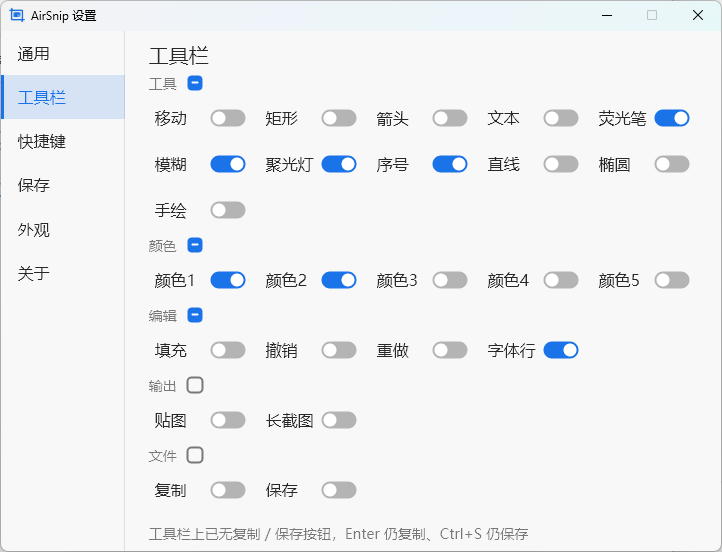
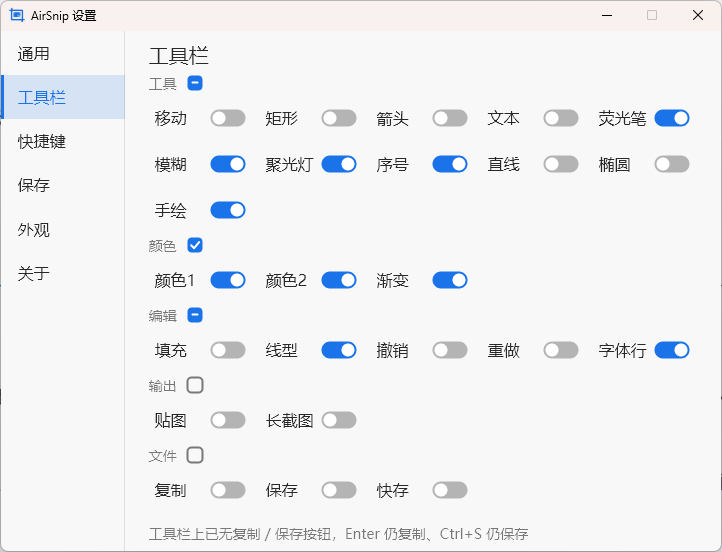
🚀 跟进 v0.13.0 正式版：版本、体积与新截图 - VERSION 升到 v0.13.0，下载直链与加速直链自动跟随；体积改为 exe 1.54 MB / zip 0.86 MB - 首页更新卡片按 v0.13.0 Release 说明重写：渐变、线型、Alt+S 快存与保存路径模板、F/R 快速选区、我要反馈、颜色组与快捷键页签变更 - 快捷键表补 Alt+S、F、R，矩形工具描述加渐变与线型 - 6 张设置截图与 hero 换成新版界面，同步 caption/alt 与 hero 尺寸 1329×692 - features / shortcuts / faq / download 

diff --git a/docs/.vitepress/data/site.ts b/docs/.vitepress/data/site.ts
@@ -84,7 +84,7 @@ export const THIRD_PARTY_URL = `${REPO_URL}/blob/main/THIRD-PARTY.md`
 export const PERF_URL = `${REPO_URL}/blob/main/docs/perf-m5.md`
 
 // 由作者维护：改这里即可让下载地址与页面上显示的版本号同步更新
-export const VERSION = 'v0.12.0'
+export const VERSION = 'v0.13.0'
 
 /** 当前版本的 Release 页面，用于「完整更新日志」 */
 export const RELEASE_URL = `${RELEASES_URL}/tag/${VERSION}`
@@ -106,20 +106,20 @@ export const DESCRIPTION = '1 MB 的 Windows 截图标注工具（Rust，纯 CPU
 export const downloadInfo = {
   platform: 'Windows x64',
   portable: '绿色免安装',
-  packageSize: '0.81 MB',
+  packageSize: '0.86 MB',
   license: 'GPL-3.0-only',
 } as const
 
 export const stats: Stat[] = [
   {
     label: '单文件体积',
-    value: '1.45',
+    value: '1.54',
     unit: 'MB',
     note: '一个 exe 就是全部',
   },
   {
     label: '下载包',
-    value: '0.81',
+    value: '0.86',
     unit: 'MB',
     note: 'zip，含文档与许可证',
   },
@@ -156,37 +156,37 @@ export const statsFootnote =
 /** 首页「这次更新了什么」：只写当前版本 Release 说明里的事实 */
 export const releaseUpdate: ReleaseUpdate = {
   title: '这次更新了什么',
-  lead: '四个大字：框选完先摆好位置再画标注；鼠标停在哪，就选中哪个窗口、甚至哪个按钮。OCR 与翻译在这一版撤销了。',
+  lead: '颜色组多了渐变，描边能换虚线点划线；截完按 Alt+S 按模板直接落盘；没有选区时 F 选整屏、R 复用上次区域。',
   changes: [
     {
+      icon: 'palette',
+      title: '颜色组里多了渐变',
+      body: '工具栏颜色组从 5 个纯色改成 2 纯色 + 1 渐变。渐变色块画的是径向预览，单击使用、双击换一套，24 套色相各不相同、方向正反交替。其中一套是完整光谱，8 个色标、色相跨 360°，在 OKLab 感知空间里插值，暗底上不发浑；首尾闭合，描边绕一圈不会在角上留硬接缝。描边沿周长走色，填充按包围盒长边，箭头与直线沿起点到终点。手绘的渐变描边改按累计弧长每 8px 描一段，1200px 的笔迹从 72ms 降到 9.2ms。',
+    },
+    {
+      icon: 'shapes',
+      title: '描边线型：实线 / 虚线 / 点划线',
+      body: '「填充」右侧新增线型格子，画的是当前线型的真实样本，带下拉箭头。段长随线宽缩放，虚线用平头端点。线型是对象样式：选中标注后改立即生效并记一次撤销，没选中时只影响下一次绘制。对矩形、椭圆、箭头、直线、手绘、序号引线生效，填充对象、文本、荧光笔、模糊、聚光灯选中时格子置灰。',
+    },
+    {
+      icon: 'clipboard',
+      title: 'Alt+S 直接落盘，不再弹对话框',
+      body: '保存路径改成一个模板：目录点一下用资源管理器选，文件名在面板里直接改，格式 png / jpg / webp 三选一，支持 $yyyy$ $MM$ $dd$ $HH$ $mm$ $ss$ $ts$ 与 %VAR% 变量。同名自动加序号，目录不存在自动创建，模板写坏会在写盘前拦住并保留覆盖层可重试。另存为还是 Ctrl+S，现在也能改键。存完弹一条轻提示，点提示直接定位到文件，可选同时复制到剪贴板。',
+    },
+    {
       icon: 'window',
-      title: '窗口自动吸附，单击就选中整窗',
-      body: '还没框选时，光标停在哪就在哪高亮：细边加半透明遮罩，左下角报出这个窗口的尺寸，单击直接把整个窗口定成选区，接着就能标注。按下就拖（超过 2px）仍是自由框选，两种用法不打架。窗口边界按系统给的真实外框取，不会把 Windows 那圈看不见的阴影算进去；任务栏和贴图窗口同样能选。',
+      title: 'F 选整屏，R 复用上次区域',
+      body: '没有选区时按 F 选中光标所在显示器的整屏（含任务栏，多显示器下鼠标在哪块屏就框哪块），按 R 复用本次运行上一次确定的选区。两者都只选中、不自动完成，落下后接着标注或按 Enter 都行；已有选区时按下去什么也不做。',
     },
     {
-      icon: 'target',
-      title: '还能继续下钻到控件',
-      body: '停在工具栏按钮、输入框、列表项上时，高亮的不是整个窗口而是那个控件。悬停先亮整窗，后台查到的子控件随后收紧；滚轮往上退到父级、往下钻得更细，最粗一档永远是整窗。查询在常驻后台线程里跑，目标程序假死也不会把覆盖层拖住。',
+      icon: 'tooltip',
+      title: '「我要反馈」一键带上运行环境',
+      body: '设置 →「关于」右侧新增按钮，一键把版本号、Windows 版本与 build、显示器（分辨率、缩放、相对主屏位置、HDR）、显卡、关键开关写成三行文本进剪贴板，随后弹通知。只有点通知上的「打开反馈页」才跳浏览器。不收集用户名、保存路径与截图内容。',
     },
     {
-      icon: 'move',
-      title: '框选完默认是移动态',
-      body: '框选结束后不再自动进入画矩形的状态：选区内拖空白就是整体平移，拖已有标注就是移动那个标注，方向键微调照旧，要画标注得显式选工具（工具栏第一个「移动」按钮，或按 V 回到移动态）。平移选区时标注跟着一起走，不会被裁到框外。每次截图都从移动态开始，颜色、线宽、字号还是照旧记住。',
-    },
-    {
-      icon: 'toggle',
-      title: '两个开关变了样子',
-      body: '「通用」页的贴图位置从两行单选收成一行开关（开 = 屏幕中间、关 = 原位置），双击选区空白的动作也能配：默认复制截图，可以改成直接贴到屏幕。开关点完立即生效并写盘，不用关掉面板。新增「窗口吸附」「控件级捕捉」两个开关，默认都开，关掉后行为与没有这两项功能时完全一致。',
-    },
-    {
-      icon: 'undo',
-      title: '撤销 OCR 与翻译',
-      body: '识别精度再往上走就得加体积、走云端，和「轻量、常驻近乎零开销」的方向冲突，所以整块撤掉了。设置面板少一页（7 → 6），快捷键页少一行，T 键、[ocr] 配置段一并消失；不用 OCR 的人反而少了一层界面。需要取字或翻译请用其他软件。',
-    },
-    {
-      icon: 'mirror',
-      title: '多显示器三处修复',
-      body: '原位贴图在主屏不在左上角时会整体偏出一整块屏；F3 贴剪贴板图原先按整个虚拟屏居中，双屏时正好骑在接缝上，现在按光标所在显示器居中；混合 HDR + SDR 多屏截图时，非 HDR 那块不再全黑。',
+      icon: 'trash',
+      title: '颜色组少两格，快捷键页拆成三个子页签',
+      body: '工具栏颜色组 5 格收到 3 格，旧配置取第 2、3 项迁移成新的两个纯色，其余丢弃 —— 升级后建议到设置里重新确认颜色。快捷键页拆成截图 / 输出 / 工具三页，20 项仍全局参与冲突检测。工具栏新增「快存」按钮与线型格子，1366×768 在 200% 缩放下又重新放得下。',
     },
   ],
 }
@@ -195,7 +195,7 @@ export const tools: Tool[] = [
   {
     key: '1',
     name: '矩形',
-    description: '描边颜色、线宽、填充、圆角。',
+    description: '描边颜色（含渐变）、线型、线宽、填充、圆角。',
   },
   {
     key: '2',
@@ -251,7 +251,22 @@ export const shortcuts: Shortcut[] = [
     action: '复制到剪贴板并退出（Ctrl+C、选区内双击同效；双击的动作可在设置里改成贴图）',
     scope: 'overlay',
   },
-  { keys: ['Ctrl', 'S'], action: '另存为（PNG / JPEG / WebP）', scope: 'overlay' },
+  { keys: ['Ctrl', 'S'], action: '另存为（PNG / JPEG / WebP），可改键', scope: 'overlay' },
+  {
+    keys: ['Alt', 'S'],
+    action: '快速保存：按保存路径模板直接落盘、不弹对话框，点存完的提示可定位到文件',
+    scope: 'overlay',
+  },
+  {
+    keys: ['F'],
+    action: '没有选区时选中光标所在显示器的整屏（含任务栏）；已有选区时不生效',
+    scope: 'overlay',
+  },
+  {
+    keys: ['R'],
+    action: '没有选区时复用本次运行上一次确定的选区；不自动完成',
+    scope: 'overlay',
+  },
   { keys: ['F3'], action: '把选区贴到屏幕', scope: 'overlay' },
   { keys: ['S'], action: '长截图（当前选区为视口）', scope: 'overlay' },
   {
@@ -349,8 +364,8 @@ export const screenshots: Screenshot[] = [
     id: 'toolbar',
     title: '工具栏',
     caption:
-      '「工具栏」页：24 个元素逐项显隐——工具组（移动 + 10 个工具）、5 个色块、填充 / 撤销 / 重做 / 字体行、贴图 / 长截图、复制 / 保存；组头可整组全显或全隐。页脚提示：全隐藏后 Enter 仍复制、Ctrl+S 仍保存。',
-    alt: 'AirSnip 设置窗口的「工具栏」页，24 个工具栏元素分成五组逐项开关，页脚提示隐藏后 Enter 仍复制、Ctrl+S 仍保存',
+      '「工具栏」页：24 个元素逐项显隐——工具组（移动 + 10 个工具）、3 个色块（2 纯色 + 1 渐变）、填充 / 线型 / 撤销 / 重做 / 字体行、贴图 / 长截图、复制 / 快存 / 保存；组头可整组全显或全隐。页脚提示：复制 / 保存藏了之后 Enter 仍复制、Ctrl+S 仍保存。',
+    alt: 'AirSnip 设置窗口的「工具栏」页，24 个工具栏元素分成五组逐项开关，含 3 个色块、线型格子与快存按钮，页脚提示隐藏后 Enter 仍复制、Ctrl+S 仍保存',
     src: '/images/toolbar.webp',
     width: 722,
     height: 552,
@@ -359,8 +374,8 @@ export const screenshots: Screenshot[] = [
     id: 'shortcuts',
     title: '快捷键',
     caption:
-      '「快捷键」页：截图 F1、再次截图 Shift+F1、贴图 F3、贴图边框 Ctrl+F3、长截图 S、工具·移动 V，以及各标注工具的按键，全部可改；底部「恢复默认」一键还原，并提示无修饰键会覆盖其他程序按键。',
-    alt: 'AirSnip 设置窗口的「快捷键」页，逐项列出截图、再次截图、贴图、贴图边框、长截图、移动与各标注工具的按键，底部有「恢复默认」按钮',
+      '「快捷键」页：分「截图 / 输出 / 工具」三个子页签，图中选中「工具」，列出移动 V 与 10 个标注工具的按键，全部可改；底部「恢复默认」一键还原，并提示无修饰键会覆盖其他程序按键。',
+    alt: 'AirSnip 设置窗口的「快捷键」页，分截图、输出、工具三个子页签，当前为工具页签，逐项列出移动 V 与矩形到数字键 1–0 的标注工具按键，底部有恢复默认按钮',
     src: '/images/shortcuts.webp',
     width: 722,
     height: 552,
@@ -369,8 +384,8 @@ export const screenshots: Screenshot[] = [
     id: 'save',
     title: '保存',
     caption:
-      '「保存」页：文件名格式三选一——日期 + 时间、时间戳（毫秒）、仅日期，图中选中时间戳（毫秒）。',
-    alt: 'AirSnip 设置窗口的「保存」页，三个文件名格式单选项，时间戳（毫秒）一项被选中',
+      '「保存」页：保存位置、文件名模板、格式（.png）、同名文件自动加序号，下面一行实时预览最终路径；上方是「快速保存后显示通知」「同时复制到剪贴板」两个开关，底部是「打开文件夹」「变量说明」。',
+    alt: 'AirSnip 设置窗口的「保存」页，含快速保存后显示通知与同时复制到剪贴板两个开关、保存位置路径、文件名模板输入框、格式下拉框 .png、同名文件自动加序号、预览路径，以及打开文件夹与变量说明按钮',
     src: '/images/save.webp',
     width: 722,
     height: 552,
@@ -389,8 +404,8 @@ export const screenshots: Screenshot[] = [
     id: 'about',
     title: '关于',
     caption:
-      '「关于」页：版本 v0.12.0 与 GPL-3.0 许可、项目地址、第三方许可清单入口、版本更新（含启动时自动检查开关，图中显示已是最新），以及作者的支持项目说明与赞赏二维码（原样展示）。',
-    alt: 'AirSnip 设置窗口的「关于」页，含版本号 v0.12.0、GPL-3.0 许可、项目地址、第三方许可入口、版本更新与启动时自动检查开关，以及支持项目二维码',
+      '「关于」页：版本 v0.13.0 与 GPL-3.0 许可，行右侧是「我要反馈」按钮；下面依次是项目地址、第三方许可清单入口、版本更新（含启动时自动检查开关，图中显示已是最新），以及作者的支持项目说明与赞赏二维码（原样展示）。',
+    alt: 'AirSnip 设置窗口的「关于」页，含版本号 v0.13.0、GPL-3.0 许可、我要反馈按钮、项目地址、第三方许可入口、版本更新与启动时自动检查开关，以及支持项目二维码',
     src: '/images/about.webp',
     width: 722,
     height: 552,
@@ -399,8 +414,8 @@ export const screenshots: Screenshot[] = [
 
 export const heroShot = {
   src: '/images/hero.webp',
-  width: 1297,
-  height: 742,
+  width: 1329,
+  height: 692,
   alt: '按 F1 后的截图覆盖层：背景整体压暗，选区框住网页内容并显示选区尺寸，屏幕底部一行标注工具栏',
   caption: '按 F1 后的样子：屏幕冻结、框选任意区域，底部一行就是全部标注工具。',
 }

diff --git a/docs/guide/features.md b/docs/guide/features.md
@@ -1,6 +1,6 @@
 ---
 title: 功能详解
-description: AirSnip 的截图、标注、二次编辑、输出、长截图、贴图与设置：窗口吸附与控件捕捉、多种标注工具、100 步撤销、三种保存格式与最多 20 张贴图。
+description: AirSnip 的截图、标注、二次编辑、输出、长截图、贴图与设置：窗口吸附与控件捕捉、渐变与虚线线型、100 步撤销、保存路径模板与最多 20 张贴图。
 ---
 
 <script setup lang="ts">
@@ -16,6 +16,7 @@ import ToolShowcase from '../.vitepress/theme/components/ToolShowcase.vue'
 - 八向缩放，按住空格整体拖动选区，方向键 1px 微调（按住 `Shift` 每次 5px）
 - 窗口吸附：还没框选时，光标停在哪就在哪高亮，单击就把整个窗口定成选区；停到工具栏按钮、输入框这类控件上会继续下钻，高亮那个控件本身，滚轮可上下调整捕捉层级
 - **框选完成后默认是「移动选区」**：选区内拖空白整体平移（标注跟着走），拖对象移动那个标注；要画标注先选工具（工具栏第一个「移动」按钮，或按 `V`）
+- 没有选区时按 `F` 选中光标所在显示器的整屏（含任务栏，多显示器下鼠标在哪块屏就框哪块），按 `R` 复用本次运行上一次确定的选区；两者都只选中、不自动完成
 - `Shift+F1` 再次截图：不退出覆盖层，重新冻结屏幕再框选；上一次的覆盖层控件也会被截进新图里
 - 选区内空白处双击 = 复制完成（可在设置里改成直接贴到屏幕）
 - 多显示器与负坐标布局正确（Per-Monitor V2）
@@ -24,6 +25,8 @@ import ToolShowcase from '../.vitepress/theme/components/ToolShowcase.vue'
 ## 标注 {#annotate}
 
 框选完成后默认是移动态，点工具栏的工具或按数字键才进入绘制，按 `V` 回到移动态。按键可改。
+
+颜色组是 2 个纯色 + 1 个渐变：渐变块上单击就使用，双击换一套（24 套，一套为跨 360° 的完整光谱，在 OKLab 感知空间插值、首尾闭合，描边绕一圈不留硬接缝）。「填充」右侧是线型格子，实线 / 虚线 / 点划线三档，段长随线宽缩放；线型是对象样式，选中标注后改立即生效并记一次撤销，没选中时只影响下一次绘制。
 
 <ToolShowcase :show-heading="false" />
 
@@ -46,14 +49,15 @@ import ToolShowcase from '../.vitepress/theme/components/ToolShowcase.vue'
 ## 输出 {#output}
 
 - 剪贴板：`CF_DIB` + 延迟渲染 PNG，粘到微信 / 文档 / 聊天框不失真
-- 另存为：PNG / JPEG / WebP（无损）
-- 文件名模板：`airsnip-20241231-235959` / 时间戳 / 仅日期；记住上次目录与格式
+- 另存为：PNG / JPEG / WebP（无损），按 `Ctrl+S`（可改键）
+- 快速保存：`Alt+S` 按保存路径模板直接落盘、不弹对话框；存完弹一条轻提示，点提示直接定位到文件，可选同时复制到剪贴板
+- 保存路径模板：目录（点一下用资源管理器选）+ 文件名 + 格式（png / jpg / webp），支持 `$yyyy$ $yy$ $MM$ $dd$ $HH$ $mm$ $ss$ $ts$` 与 `%VAR%`；同名自动加序号，目录不存在自动创建，模板写坏会在写盘前拦住
 
 <figure class="as-shot">
   <div class="as-window">
-    <img src="/images/save.webp" alt="AirSnip 设置窗口的「保存」页，三个文件名格式单选项，时间戳（毫秒）一项被选中" width="722" height="552" loading="lazy" decoding="async" />
+    <img src="/images/save.webp" alt="AirSnip 设置窗口的「保存」页，含快速保存后显示通知与同时复制到剪贴板两个开关、保存位置路径、文件名模板输入框、格式下拉框 .png、同名文件自动加序号、预览路径，以及打开文件夹与变量说明按钮" width="722" height="552" loading="lazy" decoding="async" />
   </div>
-  <figcaption>设置面板「保存」页：文件名格式三选一。</figcaption>
+  <figcaption>设置面板「保存」页：保存位置、文件名模板、格式与同名处理，下面一行实时预览最终路径。</figcaption>
 </figure>
 
 ## 长截图 {#longshot}
@@ -61,7 +65,7 @@ import ToolShowcase from '../.vitepress/theme/components/ToolShowcase.vue'
 - 以当前选区为视口，自己滚动页面，`Enter` 收尾，`Ctrl+Z` 撤销最后一段
 - 全重叠区一致性校验拼接，自动识别固定页眉 / 页脚不重复
 - 拼接过程实时缩略预览
-- 完成后状态条有「另存为」按钮，也可以按 `Ctrl+S`：自选路径与格式（PNG / JPEG / WebP），命名模板与上次目录会预填；不另存时仍自动保存到默认目录
+- 完成后状态条有「另存为」按钮，也可以按 `Ctrl+S`：自选路径与格式（PNG / JPEG / WebP），文件名与目录按保存路径模板预填；不另存时仍按模板自动保存
 
 ## 贴图（Pin） {#pin}
 
@@ -73,16 +77,16 @@ import ToolShowcase from '../.vitepress/theme/components/ToolShowcase.vue'
 
 - 自绘面板，跟随系统深浅色
 - 「外观」设置：调整软件主题，支持跟随系统切换、自适应；界面缩放可选自动或 100%–200% 固定档位，作用于全部界面（设置面板、覆盖层工具栏、贴图窗口）
-- 「工具栏」页：24 个元素逐项显隐（移动 + 10 个工具、5 个色块、填充·撤销·重做·字体行、贴图·长截图、复制·保存），组头可整组全显或全隐；隐藏只影响绘制，快捷键与输出照旧——藏了保存按钮，`Ctrl+S` 照样能存
+- 「工具栏」页：24 个元素逐项显隐（移动 + 10 个工具、3 个色块、填充·线型·撤销·重做·字体行、贴图·长截图、复制·快存·保存），组头可整组全显或全隐；隐藏只影响绘制，快捷键与输出照旧——藏了保存按钮，`Ctrl+S` 照样能存
 - 开机自启、「连按两次 Esc / 右键退出」、窗口吸附与控件级捕捉（默认都开，关掉后行为与旧版一致）
-- 全部快捷键可改（含冲突检测与输入法兼容）；每一项都能清空为「未设置」，底部「恢复默认」一键还原全部快捷键
-- 贴图默认位置（一行开关：开 = 屏幕中间、关 = 原位置）、双击选区空白的动作（复制 / 贴图）、文件名模板、主题；开关点完立即生效并写盘
+- 快捷键页分「截图 / 输出 / 工具」三页，共 20 项，全部可改（含冲突检测与输入法兼容）；每一项都能清空为「未设置」，底部「恢复默认」一键还原全部快捷键
+- 贴图默认位置（一行开关：开 = 屏幕中间、关 = 原位置）、双击选区空白的动作（复制 / 贴图）、保存路径模板、主题；开关点完立即生效并写盘
 - 自动更新：启动后静默检查新版本，发现后弹托盘气泡；可以在「关于」→ 版本更新里关掉「启动时自动检查」，也可以在那里手动更新
-- 「关于」页：版本、许可、第三方组件清单、项目地址
+- 「关于」页：版本、许可、第三方组件清单、项目地址，以及「我要反馈」——一键把版本号、Windows 版本、显示器与显卡信息写进剪贴板（不收集用户名、保存路径与截图内容）
 
 <figure class="as-shot">
   <div class="as-window">
-    <img src="/images/toolbar.webp" alt="AirSnip 设置窗口的「工具栏」页，24 个工具栏元素分成五组逐项开关，页脚提示隐藏后 Enter 仍复制、Ctrl+S 仍保存" width="722" height="552" loading="lazy" decoding="async" />
+    <img src="/images/toolbar.webp" alt="AirSnip 设置窗口的「工具栏」页，24 个工具栏元素分成五组逐项开关，含 3 个色块、线型格子与快存按钮，页脚提示隐藏后 Enter 仍复制、Ctrl+S 仍保存" width="722" height="552" loading="lazy" decoding="async" />
   </div>
   <figcaption>设置面板「工具栏」页：24 个元素逐项显隐，组头可整组全显或全隐。</figcaption>
 </figure>

diff --git a/README.md b/README.md
@@ -63,7 +63,7 @@ docs/
 只改 `docs/.vitepress/data/site.ts`：
 
 ```ts
-export const VERSION = 'v0.12.0'                   // 版本号
+export const VERSION = 'v0.13.0'                   // 版本号
 export const MIRROR_PREFIX = 'https://v4.gh-proxy.org/' // 国内加速站前缀
 ```
 
@@ -81,7 +81,7 @@ https://github.com/bd-dxg/airsnip/releases/download/<VERSION>/airsnip-<VERSION>-
 发版时还有三处要跟手改（它们不会随 `VERSION` 自动变）：
 
 1. `stats` 里的「单文件体积」「下载包」，以及 `downloadInfo.packageSize`
-2. `releaseNotes`——首页「本次更新」区块的四张卡片，内容照当次 Release 说明写
+2. `releaseUpdate`——首页「本次更新」区块的卡片，内容照当次 Release 说明写
 3. `docs/about/performance.md` 表格里的同一组数字
 
 ## 部署
@@ -92,7 +92,7 @@ https://github.com/bd-dxg/airsnip/releases/download/<VERSION>/airsnip-<VERSION>-
 
 ## TODO（待作者 / 人工确认）
 
-1. **下载包体积口径**：`v0.12.0` 的 `airsnip-v0.12.0-win-x64.zip` 实测为 844,755 字节（约 0.81 MiB / 0.84 MB 十进制），页面写的是「约 0.81 MB」（按 MiB 计，与历次口径一致）。如需精确，改 `downloadInfo.packageSize`。
+1. **下载包体积口径**：`v0.13.0` 的 `airsnip-v0.13.0-win-x64.zip` 实测为 896,598 字节（约 0.86 MiB / 0.90 MB 十进制），页面写的是「约 0.86 MB」（按 MiB 计，与历次口径一致）。如需精确，改 `downloadInfo.packageSize`。
 2. **截图为 WebP**：作者提供的原图为 `.webp`（文档示例写的是 `.jpg`）。为避免引入图片处理依赖，站点直接引用 webp，未做转码；`og:image` 同样是 webp，个别社交平台预览支持有限，如需要可另出一张 png。
 3. **图片体积**：7 张图片当前均小于 450 KB（最大为 `hero.webp` 约 417 KB），暂不需要压缩。
 4. **`about.webp` 中的赞助信息**：按文档要求原样展示，站点不新增任何赞助页或收款码。

diff --git a/AGENTS.md b/AGENTS.md
@@ -29,7 +29,7 @@ pnpm exec tsc --noEmit # 类型检查（strict）
 第 1 步改完，用下面这条各验一次，**两个都返回 200 且 `Content-Length` 一致**才算对：
 
 ```powershell
-$asset = 'https://github.com/bd-dxg/airsnip/releases/download/v0.12.0/airsnip-v0.12.0-win-x64.zip'
+$asset = 'https://github.com/bd-dxg/airsnip/releases/download/v0.13.0/airsnip-v0.13.0-win-x64.zip'
 curl.exe -sIL -o NUL -w "%{http_code} %{size_download}`n" $asset
 curl.exe -sIL -o NUL -w "%{http_code} %{size_download}`n" "https://v4.gh-proxy.org/$asset"
 ```
@@ -39,10 +39,10 @@ curl.exe -sIL -o NUL -w "%{http_code} %{size_download}`n" "https://v4.gh-proxy.o
 国内加速走 `v4.gh-proxy.org`（和 danmu-site 同一个镜像），原始 GitHub 链接直接拼在域名后面：
 
 ```text
-https://v4.gh-proxy.org/https://github.com/bd-dxg/airsnip/releases/download/v0.12.0/airsnip-v0.12.0-win-x64.zip
+https://v4.gh-proxy.org/https://github.com/bd-dxg/airsnip/releases/download/v0.13.0/airsnip-v0.13.0-win-x64.zip
 ```
 
-注意这里的路径和文件名**都带 v**（`v0.12.0` / `airsnip-v0.12.0-win-x64.zip`），和 douyin-danmu 的 `0.2.1` 格式不一样，别照抄那边的。
+注意这里的路径和文件名**都带 v**（`v0.13.0` / `airsnip-v0.13.0-win-x64.zip`），和 douyin-danmu 的 `0.2.1` 格式不一样，别照抄那边的。
 
 `releases/latest` 只适合当「历史版本 / 所有版本」入口，不是直接下载——资产名里带版本号，`/releases/latest/download/<文件名>` 用不了。
 

diff --git a/docs/index.md b/docs/index.md
@@ -19,11 +19,11 @@ hero:
       link: https://github.com/bd-dxg/airsnip
 features:
   - title: 截图
-    details: F1 触发，全屏冻结后框选；鼠标停在窗口上单击即整窗选中，还能继续下钻到控件；八向缩放、按住空格整体拖动。
+    details: F1 触发，全屏冻结后框选；鼠标停在窗口上单击即整窗选中，还能继续下钻到控件；没选区时 F 选整屏、R 复用上次区域；八向缩放、按住空格整体拖动。
     link: /guide/features#capture
     linkText: 了解详情
   - title: 标注
-    details: 矩形、箭头、文本、高斯模糊、荧光笔、聚光灯、序号、直线、椭圆、手绘；框选完默认是移动态，选工具或按数字键才进绘制。
+    details: 矩形、箭头、文本、高斯模糊、荧光笔、聚光灯、序号、直线、椭圆、手绘；描边可换渐变与虚线 / 点划线；框选完默认是移动态，选工具或按数字键才进绘制。
     link: /guide/features#annotate
     linkText: 了解详情
   - title: 二次编辑
@@ -39,7 +39,7 @@ features:
     link: /guide/features#pin
     linkText: 了解详情
   - title: 输出
-    details: 剪贴板（CF_DIB + 延迟渲染 PNG）与 PNG / JPEG / WebP 另存，文件名模板可配。
+    details: 剪贴板（CF_DIB + 延迟渲染 PNG）与 PNG / JPEG / WebP 另存；配好保存路径模板后按 Alt+S 直接落盘，不弹对话框。
     link: /guide/features#output
     linkText: 了解详情
 ---

diff --git a/docs/about/license.md b/docs/about/license.md
@@ -15,7 +15,7 @@ AirSnip 以 **GPL-3.0-only** 开源，源码与问题反馈都在 [GitHub 仓库
 
 <figure class="as-shot">
   <div class="as-window">
-    <img src="/images/about.webp" alt="AirSnip 设置窗口的「关于」页，含版本号 v0.12.0、GPL-3.0 许可、项目地址、第三方许可入口、版本更新与支持项目二维码" width="722" height="552" loading="lazy" decoding="async" />
+    <img src="/images/about.webp" alt="AirSnip 设置窗口的「关于」页，含版本号 v0.13.0、GPL-3.0 许可、我要反馈按钮、项目地址、第三方许可入口、版本更新与支持项目二维码" width="722" height="552" loading="lazy" decoding="async" />
   </div>
   <figcaption>软件「关于」页：版本、许可、项目地址、第三方许可入口与作者的支持项目。</figcaption>
 </figure>

diff --git a/docs/guide/getting-started.md b/docs/guide/getting-started.md
@@ -9,7 +9,7 @@ AirSnip 是绿色单文件，解压即用，不写注册表。下面是完整启
 
 ## 1. 下载并解压
 
-点击下载按钮获取 zip（约 0.81 MB，含文档与许可证），解压到任意目录。
+点击下载按钮获取 zip（约 0.86 MB，含文档与许可证），解压到任意目录。
 
 <DownloadCard />
 

diff --git a/docs/download.md b/docs/download.md
@@ -1,6 +1,6 @@
 ---
 title: 下载
-description: 下载 AirSnip：Windows x64 绿色单文件，约 0.81 MB，解压即用，无需安装。
+description: 下载 AirSnip：Windows x64 绿色单文件，约 0.86 MB，解压即用，无需安装。
 ---
 
 # 下载
